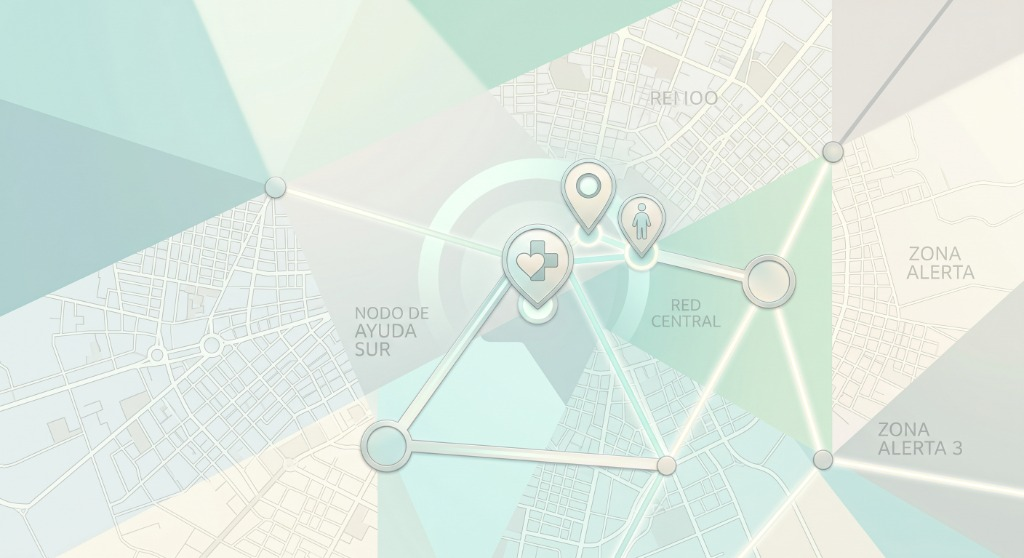
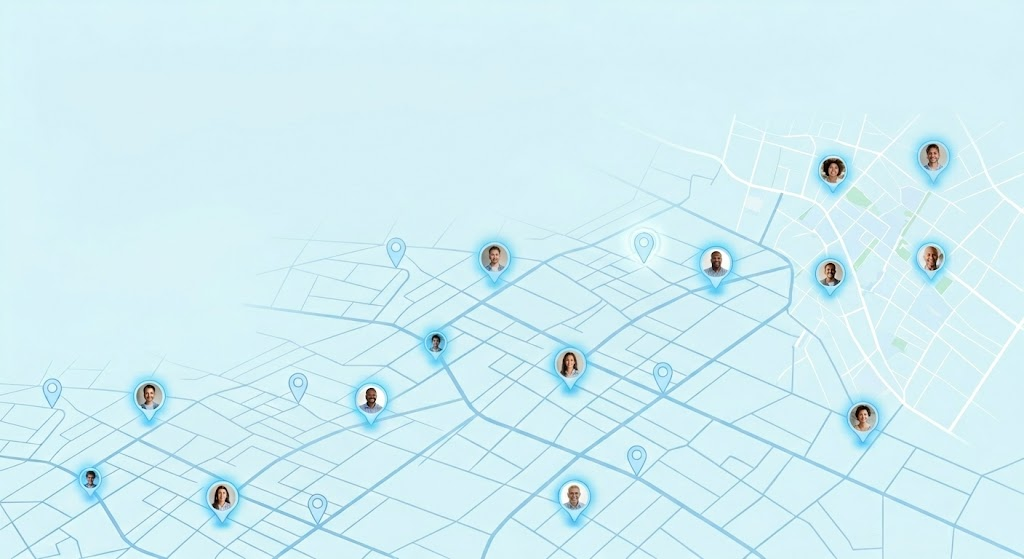
feat: imagen de fondo mapa en pantalla inicio

diff --git a/index_v336.css b/index_v336.css
@@ -9824,7 +9824,7 @@ body {
 .wa-viewer-action:active { transform: scale(0.92); }
 /* --- HOME SCREEN (SPLASH) REDESIGN --- */
 .splash-bg {
-    background: linear-gradient(rgba(255, 255, 255, 0.4), rgba(255, 255, 255, 0.45)), url('assets/home_bg.jpg') no-repeat center center / cover !important;
+    background: linear-gradient(rgba(255, 255, 255, 0.15), rgba(255, 255, 255, 0.20)), url('assets/home_bg.jpg') no-repeat center center / cover !important;
     position: relative;
     overflow-y: auto;
     overflow-x: hidden;